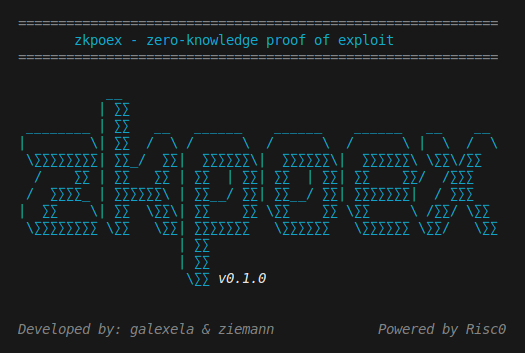
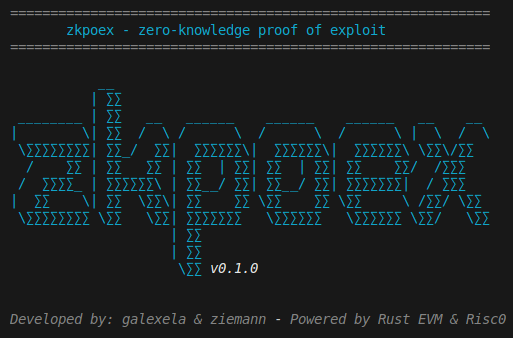
fix: :memo: Updated `README.md` and zkpoex screen

diff --git a/README.md b/README.md
@@ -1,22 +1,6 @@
-<div align="center" style="margin-bottom: 20px">
-  <img class="responsive-img" width="230px" height="341px" src="assets/zkpoex-logo.png">
+<div align="center">
+  <img src="assets/zkpoex-logo.png" width="230" height="341" style="max-width: 100%; height: auto;">
 </div>
-
-<style>
-
-  .responsive-img {
-    width: 230px;
-    height: 341px;
-    max-width: 100%;
-  }
-
-  @media (max-width: 600px) {
-    .responsive-img {
-      width: 150px;
-      height: 221px;
-    }
-  }
-</style>
 
 
 ![Version](https://img.shields.io/badge/v0.1.0-blue)
